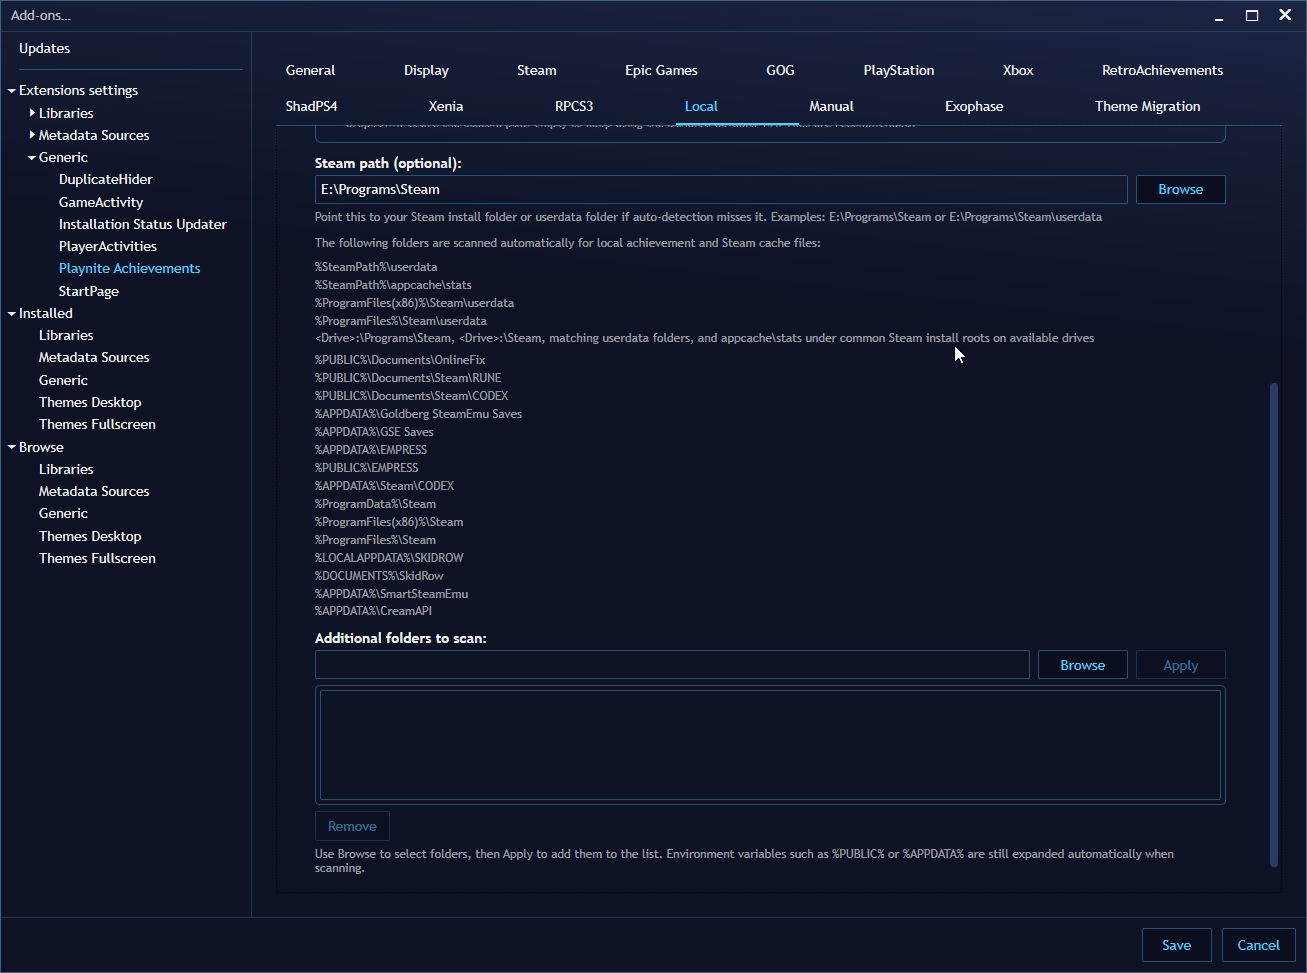
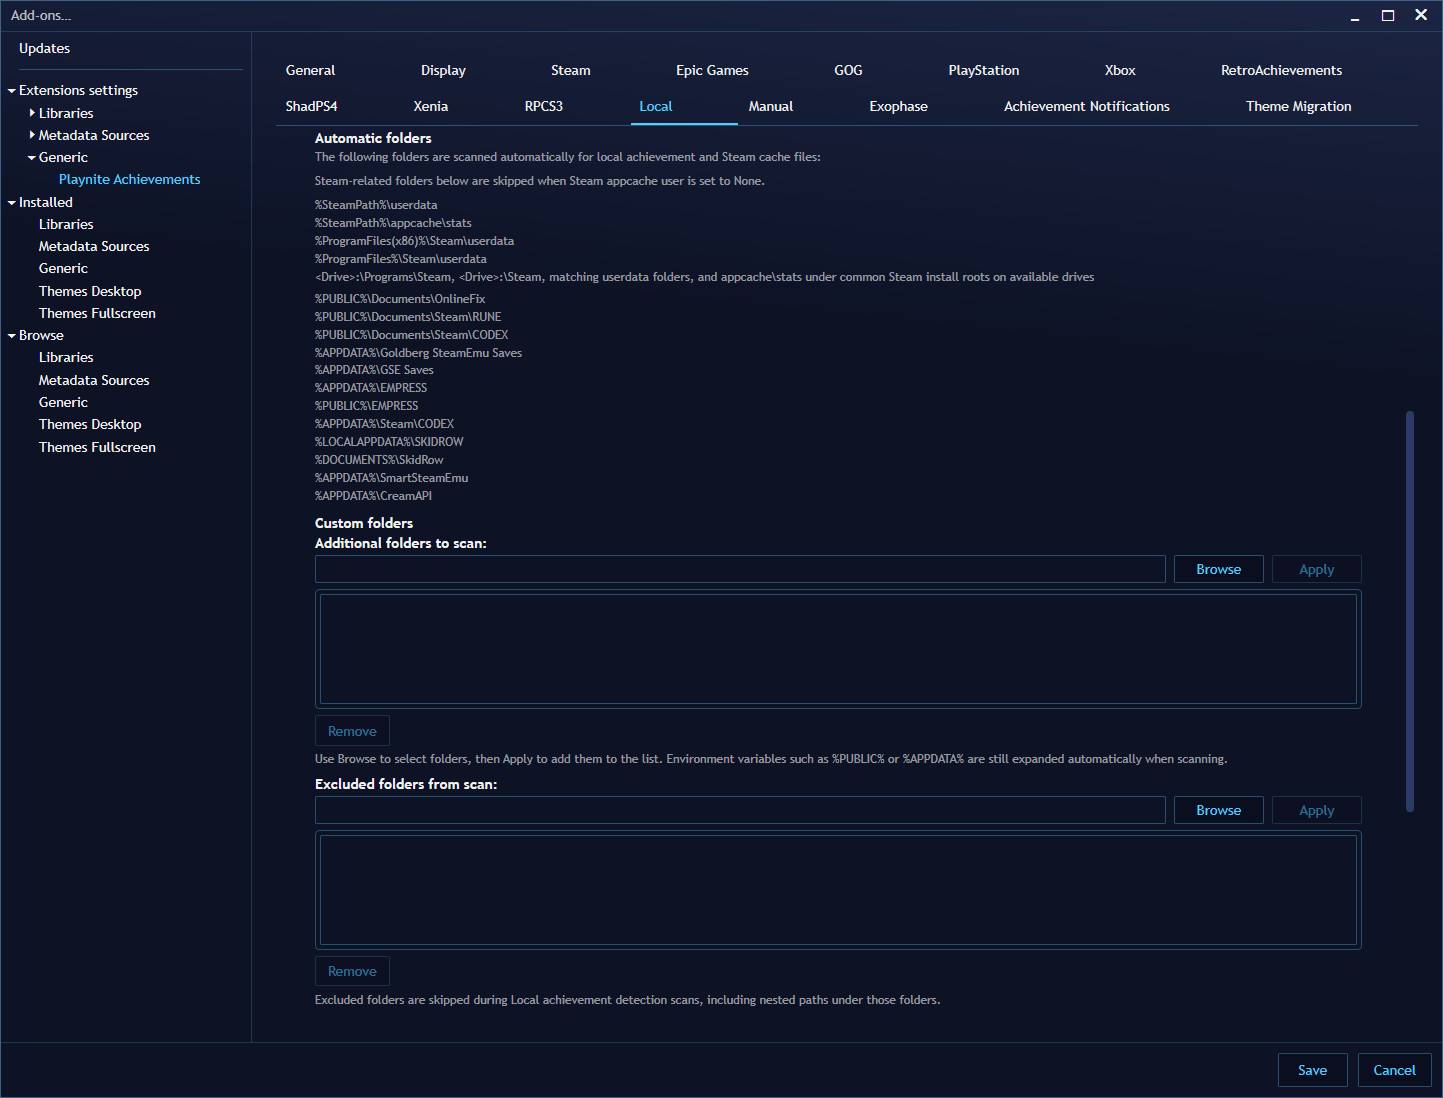
README update

diff --git a/README.md b/README.md
@@ -43,7 +43,7 @@
 
 ## Local Provider Folder List And Browse Flow
 
-You can set any custom folder where you have saves located in your system
+You can set any custom folder where you have saves located in your system as exception to never detect achievements from it
 
 <img src="Images/LocalAchivementsFolders.png" alt="Sidebar single-game view" width="900">
 
